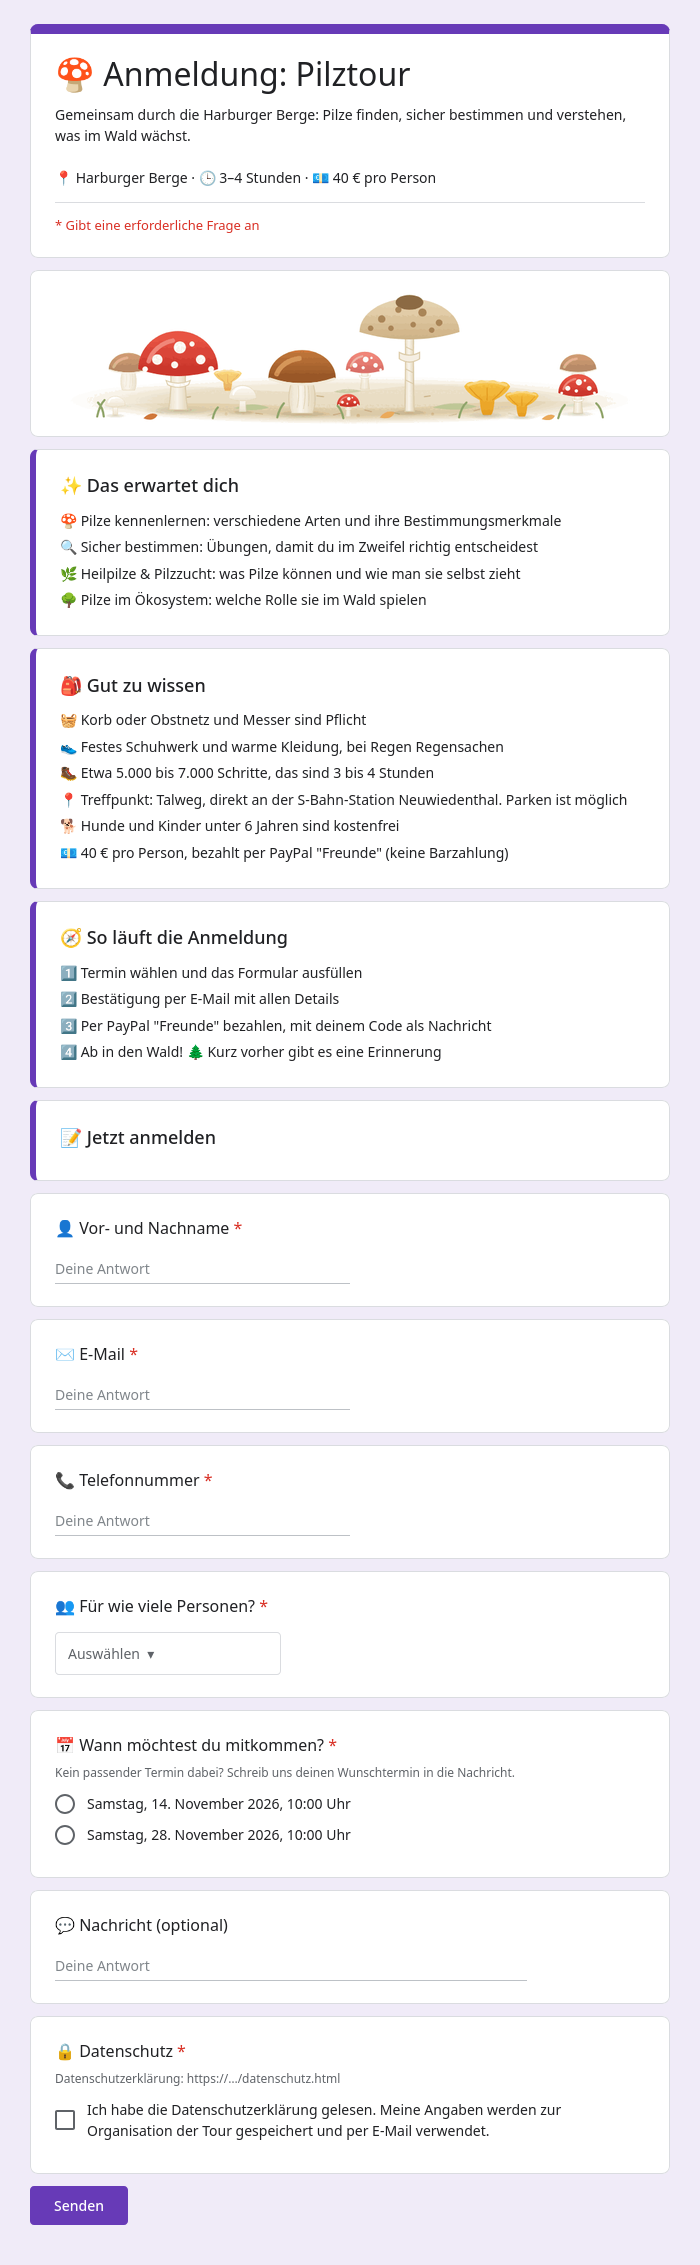
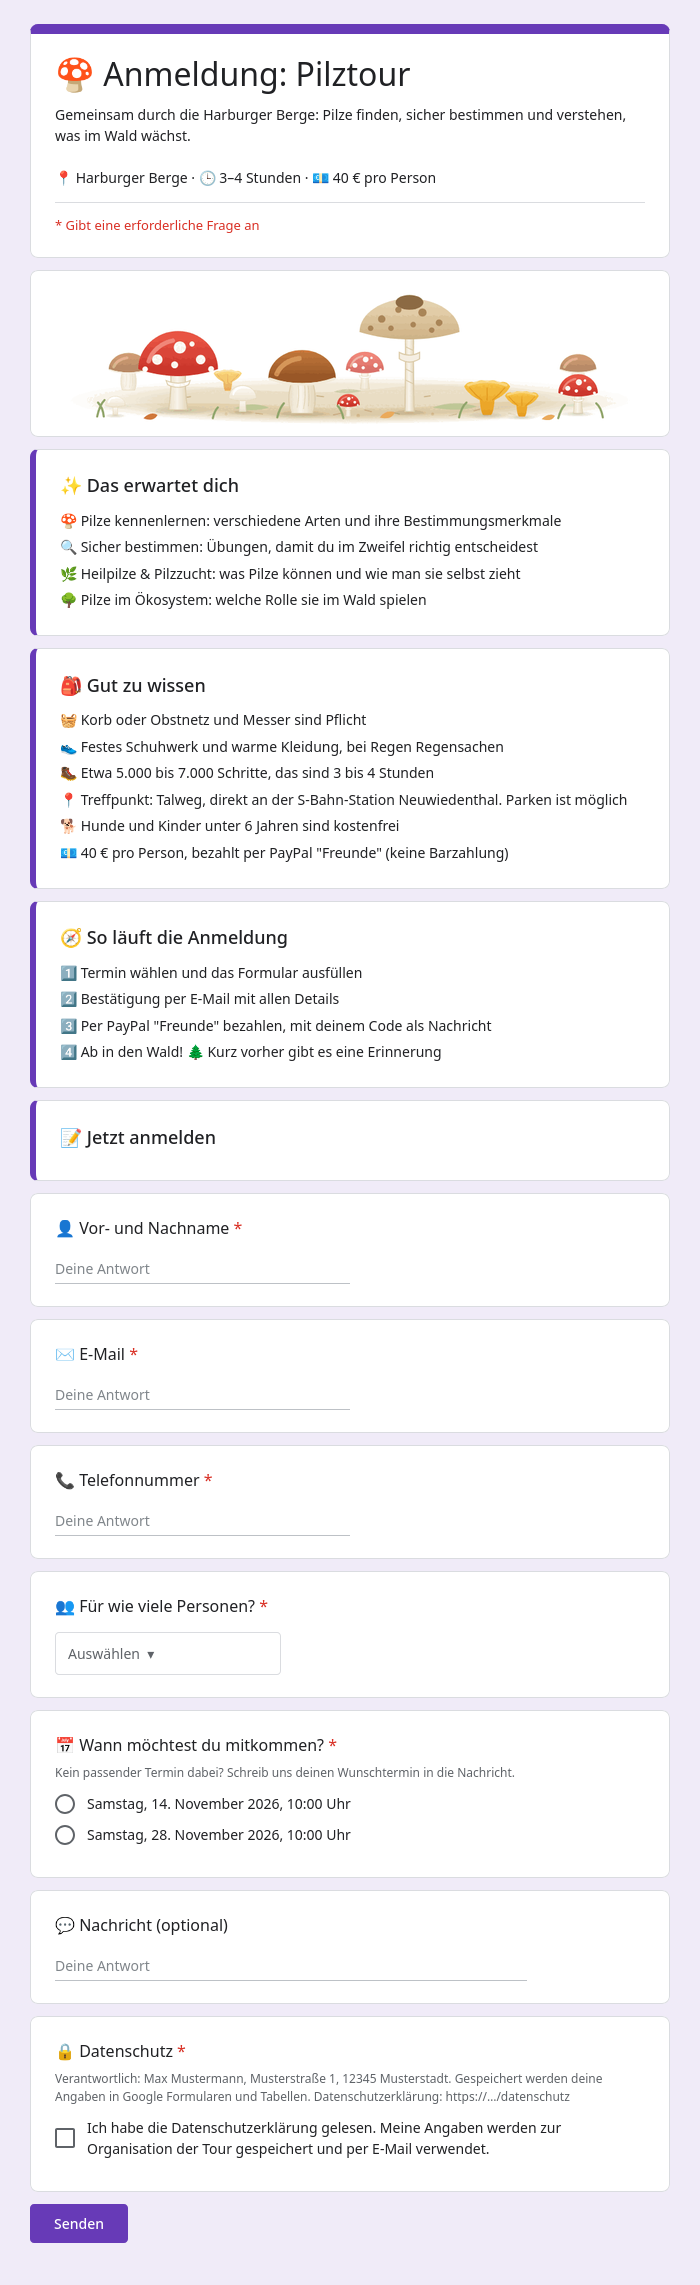
Datenschutzerklärung für die Google-Forms-Variante (Entwurf), Hinweis im Formular, README
Claude-Session: https://claude.ai/code/session_01MYNf8pMomTE6ck1vT4AuAb

diff --git a/docs/google-forms/datenschutzerklaerung-google-forms.md b/docs/google-forms/datenschutzerklaerung-google-forms.md
@@ -1,0 +1,70 @@
+# Datenschutzerklärung (Entwurf für die Google-Forms-Variante)
+
+> **ENTWURF.** Alles in `[[doppelten eckigen Klammern]]` muss der Veranstalter ausfüllen oder prüfen. Vor dem Start rechtlich prüfen lassen und diesen Kasten entfernen. Der Text ist keine Rechtsberatung. Er gilt nur für die Variante mit Google Formularen. Für die Web-App gibt es eine eigene Erklärung (`public/datenschutz.html`), weil dort andere Dinge passieren (eigener Server, automatische Löschung).
+
+## 1. Verantwortlicher
+
+[[Vor- und Nachname]]
+[[Straße und Hausnummer, PLZ und Ort]]
+E-Mail: [[E-Mail-Adresse]]
+
+## 2. Welche Daten wir verarbeiten und wozu
+
+**Anmeldung zur Pilztour.** Wenn du dich über das Formular anmeldest, speichern wir:
+
+- Vor- und Nachname, E-Mail-Adresse und Telefonnummer,
+- die Zahl der angemeldeten Personen und den gewählten Termin,
+- deine Nachricht an uns (freiwillig),
+- den Zeitpunkt der Anmeldung, einen Anmeldecode, den Status (bestätigt oder Warteliste), einen Vermerk, ob bezahlt wurde, und einen Vermerk, ob die Erinnerung verschickt wurde.
+
+Wir brauchen die Daten, um deine Anmeldung zu bestätigen und die Tour zu organisieren. Dazu gehören die Bestätigungsmail, die Warteliste, eine Erinnerung vor der Tour, Mitteilungen bei Absage oder Änderung und der Abgleich der Zahlung. Wir erreichen dich per E-Mail und, falls nötig, telefonisch (zum Beispiel bei kurzfristigen Änderungen am Tourtag).
+
+**Rechtsgrundlage** ist die Durchführung des Vertrags und vorvertraglicher Maßnahmen auf deine Anfrage (Art. 6 Abs. 1 lit. b DSGVO). Für Zahlungsbelege gilt außerdem die gesetzliche Aufbewahrungspflicht (Art. 6 Abs. 1 lit. c DSGVO).
+
+## 3. Google Formulare, Tabellen und E-Mail
+
+Das Anmeldeformular läuft über **Google Formulare**. Die Antworten werden in einer **Google Tabelle** gespeichert, und die automatischen Mails (Bestätigung, Erinnerung) werden über das Google-Konto des Veranstalters verschickt. Anbieter ist [[Google Ireland Limited, Gordon House, Barrow Street, Dublin 4, Irland (bei Google Workspace und privaten Konten im EWR) – Angabe prüfen]]. Deine Daten werden dort in unserem Auftrag gespeichert und verarbeitet.
+
+Google kann Daten auch in Länder außerhalb der EU übermitteln, zum Beispiel in die USA. [[Prüfen, auf welcher Grundlage (z. B. EU-US Data Privacy Framework oder Standardvertragsklauseln) und hier nennen.]]
+
+Beim Aufruf des Formulars verarbeitet Google außerdem technische Daten wie deine IP-Adresse und setzt gegebenenfalls Cookies, in eigener Verantwortung. Siehe die Datenschutzerklärung von Google: https://policies.google.com/privacy
+
+[[Hinweis für den Veranstalter: Für die Verarbeitung im Auftrag braucht es einen Auftragsverarbeitungsvertrag mit Google. Bei **Google Workspace** lässt er sich in der Admin-Konsole bestätigen. Bei einem rein privaten Google-Konto steht das nach meinem Kenntnisstand nicht zur Verfügung, das ist rechtlich heikel. Das klären lassen. Diesen Hinweis danach löschen.]]
+
+## 4. Bezahlung
+
+Bezahlt wird per PayPal. Dabei verarbeitet PayPal deine Daten in eigener Verantwortung, siehe die Datenschutzhinweise von PayPal. Wir sehen in unserem PayPal-Konto Name, Betrag und deine Nachricht (den Anmeldecode) und gleichen damit die Zahlung ab.
+
+## 5. Empfänger der Daten
+
+Wir geben deine Daten nicht zu Werbezwecken weiter. Beteiligt sind Google (siehe oben), PayPal und [[gegebenenfalls Steuerberater oder Buchhaltung]].
+
+## 6. Wie lange wir Daten speichern
+
+Wir löschen deinen Namen, deine E-Mail-Adresse, Telefonnummer und Nachricht [[12 Monate]] nach der Tour. Übrig bleibt ein Eintrag ohne Namen mit Code, Personenzahl, Termin und dem Vermerk, ob bezahlt wurde, für die Buchhaltung. Belege zu Zahlungen müssen wir nach den steuerrechtlichen Vorgaben länger aufbewahren ([[Dauer mit dem Steuerberater klären]]), auch bei PayPal. Auf Wunsch löschen wir deine Daten früher, soweit keine gesetzliche Pflicht dagegen spricht.
+
+[[Hinweis für den Veranstalter: In der Google-Variante gibt es **keine automatische Löschung**. Die Zeilen in der Antworten-Tabelle müssen nach der Frist von Hand gelöscht oder anonymisiert werden (Name, E-Mail, Telefon, Nachricht leeren). Am besten einen Kalendertermin dafür eintragen, sonst stimmt dieser Text nicht. Auch die Mails im Gesendet-Ordner des Google-Kontos enthalten Namen. Diesen Hinweis danach löschen.]]
+
+## 7. Deine Rechte
+
+Du hast jederzeit das Recht auf Auskunft über deine gespeicherten Daten (Art. 15 DSGVO), Berichtigung (Art. 16), Löschung (Art. 17), Einschränkung der Verarbeitung (Art. 18), Übertragbarkeit (Art. 20) und Widerspruch gegen Verarbeitungen auf Grundlage berechtigter Interessen (Art. 21). Schreib dazu einfach an die E-Mail-Adresse oben.
+
+Du kannst dich außerdem bei einer Datenschutz-Aufsichtsbehörde beschweren, zum Beispiel bei [[der für den Wohnort des Veranstalters zuständigen Behörde mit Anschrift eintragen]].
+
+## 8. Pflicht zur Angabe der Daten
+
+Name, E-Mail-Adresse, Telefonnummer, Personenzahl und Termin brauchen wir, um die Anmeldung durchzuführen. Ohne sie ist keine Anmeldung möglich. Die Nachricht ist freiwillig.
+
+Stand: [[Datum]]
+
+---
+
+## Wo wird die Erklärung veröffentlicht? (Hinweis für den Veranstalter, nicht Teil des Textes)
+
+Das Formular braucht eine **öffentliche Adresse** der Erklärung (`CONFIG.datenschutzUrl` im Skript). Ohne eigene Webseite geht das so:
+
+1. Den Text in ein **Google Dokument** kopieren, die Platzhalter ausfüllen und die Hinweise entfernen.
+2. Im Dokument **Datei → Teilen → Im Web veröffentlichen** wählen und den Link kopieren.
+3. Diesen Link in `CONFIG.datenschutzUrl` eintragen und das Formular neu erzeugen.
+
+Außerdem braucht die Seite, von der aus das Formular verlinkt wird, ein **Impressum**.
